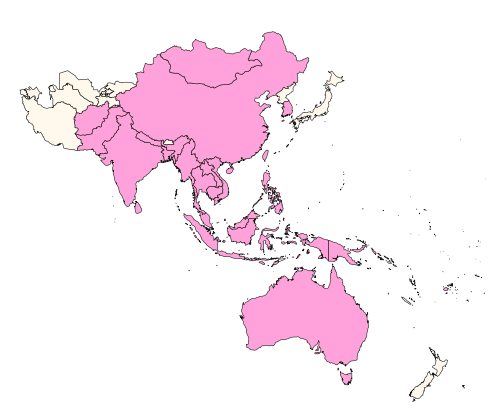
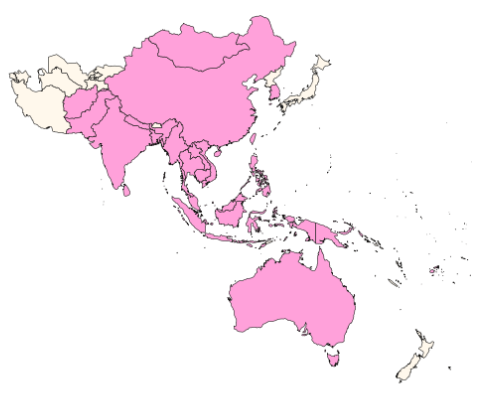
refactor(frontend): reorganize PageContent and adjust map dimensions
Relocate PageContent component to the HomePageContent directory.
Reduce mobile height of the FundingMap container from 400px to 250px.
Update UAF Asia-Pacific map binary asset.
Apply linting fixes to SecondaryCTA (semicolons and formatting).

Changed region(s): [[0.0, 0.0303, 0.93, 0.9394], [0.78, 0.8182, 0.9, 0.9697]]

diff --git a/src/components/SecondaryCTA/index.tsx b/src/components/SecondaryCTA/index.tsx
@@ -1,37 +1,33 @@
-import React from 'react';
+import React from 'react'
 import Link from 'next/link'
-import { ButtonArray } from '@/components/ButtonArray';
+import { ButtonArray } from '@/components/ButtonArray'
 
 interface SecondaryCTAProps {
-  title: string;
-  subtitle: string;
+  title: string
+  subtitle: string
   ctaButton: {
-    id: string,
+    id: string
     link: {
-      type: string;
-      newTab?: boolean | null;
-      downloadLink?: boolean | null;
-      arrowLink?: boolean | null;
-      pillSolid?: boolean | null;
-      pillOutline?: boolean | null;
-      url?: string | null;
-      label: string | null;
-      email?: string | null;
+      type: string
+      newTab?: boolean | null
+      downloadLink?: boolean | null
+      arrowLink?: boolean | null
+      pillSolid?: boolean | null
+      pillOutline?: boolean | null
+      url?: string | null
+      label: string | null
+      email?: string | null
       reference?: {
-        relationTo?: string;
+        relationTo?: string
         value: {
-          slug?: string;
-        };
+          slug?: string
+        }
       }
     }
-  }[];
+  }[]
 }
 
-export const SecondaryCTA: React.FC<SecondaryCTAProps> = ({
-  title,
-  subtitle,
-  ctaButton
-}) => {
+export const SecondaryCTA: React.FC<SecondaryCTAProps> = ({ title, subtitle, ctaButton }) => {
   return (
     <div className="secondaryCTA">
       <div className="seccondaryCTA_titles">

diff --git a/src/app/(frontend)/components/HomePageContent/PageContent.tsx b/src/app/(frontend)/components/HomePageContent/PageContent.tsx
@@ -2,7 +2,7 @@
 
 import React, { useState, useEffect } from 'react'
 import { useLanguage } from '@/providers/LanguageContext'
-import { SecondaryCTA } from './components/SecondaryCTA'
+import { SecondaryCTA } from '@/components/SecondaryCTA'
 import { GrantCardGrid } from '@/components/GrantCardGrid'
 import { FeatureCard } from '@/components/FeatureCard'
 import { ListingCardDeck } from '@/components/ListingCardDeck'
@@ -28,7 +28,9 @@ export const PageContent: React.FC<PageProps> = ({ data = {}, isDraft = false })
   const handleLanguageChange = async (newLanguage: string) => {
     try {
       const draftParam = isDraft ? '&draft=true' : ''
-      const response = await fetch(`/api/globals/homepage?locale=${newLanguage}&depth=2${draftParam}`)
+      const response = await fetch(
+        `/api/globals/homepage?locale=${newLanguage}&depth=2${draftParam}`,
+      )
 
       if (!response.ok) {
         throw new Error(`Failed to fetch Content Blocks: ${response.status} ${response.statusText}`)

diff --git a/src/components/FundingMap/index.tsx b/src/components/FundingMap/index.tsx
@@ -134,7 +134,7 @@ export const FundingMap: React.FC<FundingMapProps> = ({
       {/* Map Image Section - 7 columns on desktop, full width on mobile/tablet */}
       <div className="col-span-full md:col-span-8 lg:col-span-7 lg:col-start-6">
         {selectedRegion && (
-          <div className="relative w-full h-[400px] md:h-[500px] lg:h-[600px]">
+          <div className="relative w-full h-[250px] md:h-[500px] lg:h-[600px]">
             <Image
               src={`/fundingmap_countries/${selectedRegion}.png`}
               alt={getRegionLabel(selectedRegion)}

diff --git a/src/app/(frontend)/page.tsx b/src/app/(frontend)/page.tsx
@@ -1,7 +1,7 @@
 import type { Metadata } from 'next/types'
 import React from 'react'
 import { HomeHero } from './components/HomeHero/HomeHero'
-import { PageContent } from './components/PageContent/PageContent'
+import { PageContent } from './components/HomePageContent/PageContent'
 import { ColumnIndicators } from './components/ColumnIndicators'
 import { draftMode } from 'next/headers'
 import { getPayload } from 'payload'
